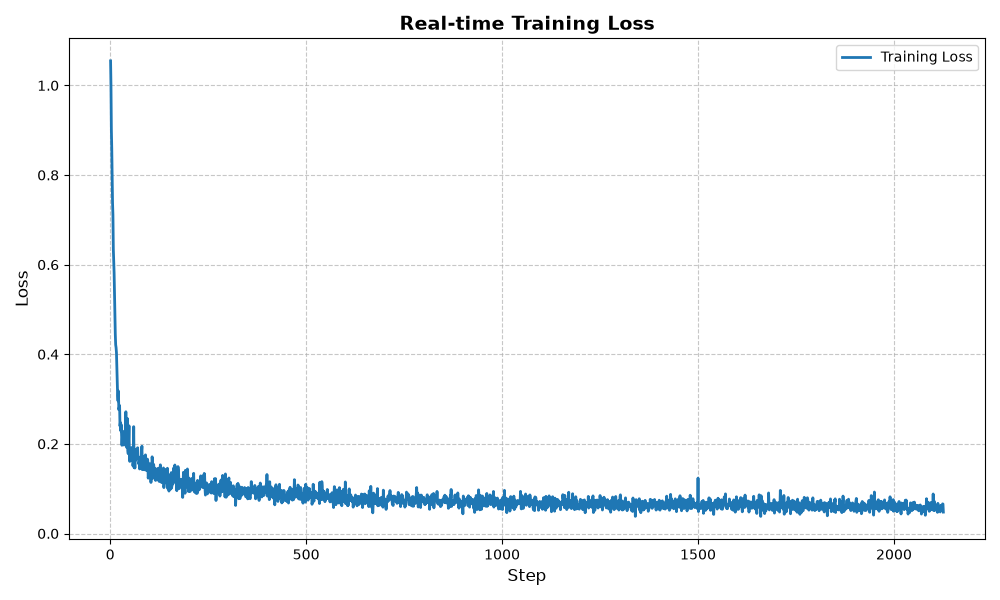
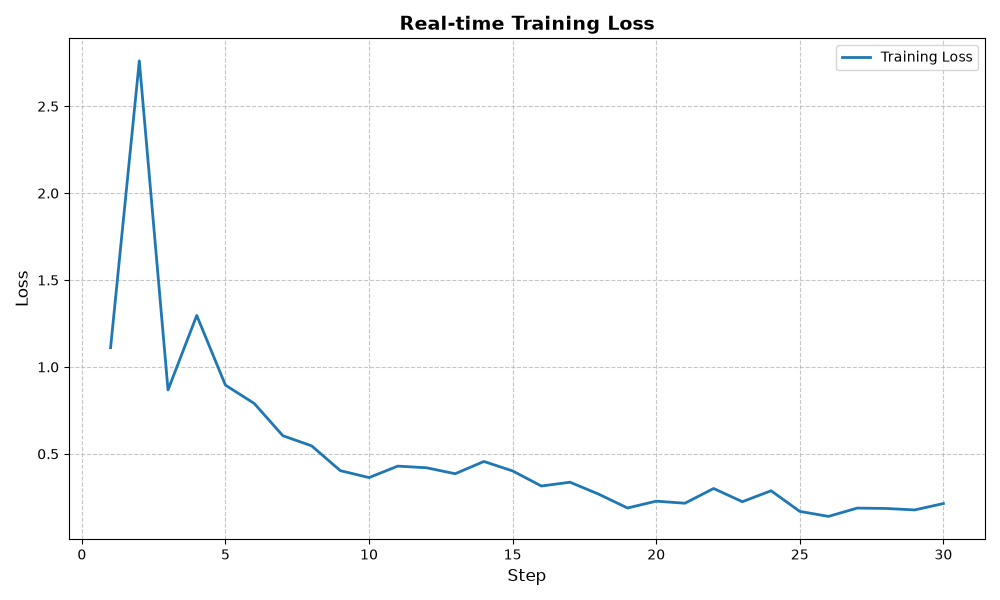
new plot

diff --git a/plot_loss_remote.py b/plot_loss_remote.py
@@ -6,7 +6,7 @@ matplotlib.use('Agg')
 import matplotlib.pyplot as plt
 
 # 設定檔案路徑
-LOG_FILE_PATH = 'runs/train_attention_100k/train.jsonl'
+LOG_FILE_PATH = 'runs/train_xl_attention_film_100k/train.jsonl'
 OUTPUT_IMAGE_PATH = 'training_loss_realtime.png'  # 輸出的圖片名稱
 
 steps = []